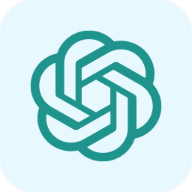
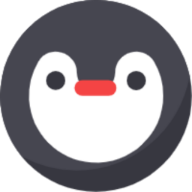
feat: 更改主站和分享的logo；调整拖动的样式

diff --git a/app/locales/cn.ts b/app/locales/cn.ts
@@ -33,7 +33,7 @@ const cn = {
     },
     Commands: {
       new: "新建聊天",
-      newm: "从面具新建聊天",
+      newm: "从场景新建聊天",
       next: "下一个聊天",
       prev: "上一个聊天",
       clear: "清除上下文",
@@ -48,7 +48,7 @@ const cn = {
         dark: "深色模式",
       },
       Prompt: "快捷指令",
-      Masks: "所有面具",
+      Masks: "所有场景",
       Clear: "清除聊天",
       Settings: "对话设置",
     },
@@ -64,7 +64,7 @@ const cn = {
     Send: "发送",
     Config: {
       Reset: "清除记忆",
-      SaveAs: "存为面具",
+      SaveAs: "存为场景",
     },
     IsContext: "预设提示词",
   },
@@ -80,8 +80,8 @@ const cn = {
       SubTitle: "可以导出 Markdown 文本或者 PNG 图片",
     },
     IncludeContext: {
-      Title: "包含面具上下文",
-      SubTitle: "是否在消息中展示面具上下文",
+      Title: "包含场景上下文",
+      SubTitle: "是否在消息中展示场景上下文",
     },
     Steps: {
       Select: "选取",
@@ -165,12 +165,12 @@ const cn = {
     },
     Mask: {
       Splash: {
-        Title: "面具启动页",
-        SubTitle: "新建聊天时，展示面具启动页",
+        Title: "场景启动页",
+        SubTitle: "新建聊天时，展示场景启动页",
       },
       Builtin: {
-        Title: "隐藏内置面具",
-        SubTitle: "在所有面具列表中隐藏内置面具",
+        Title: "隐藏内置场景",
+        SubTitle: "在所有场景列表中隐藏内置场景",
       },
     },
     Prompt: {
@@ -278,9 +278,9 @@ const cn = {
   Mask: {
     Name: "新的对话",
     Page: {
-      Title: "预设角色面具",
+      Title: "预设角色场景",
       SubTitle: (count: number) => `${count} 个预设角色定义`,
-      Search: "搜索角色面具",
+      Search: "搜索角色场景",
       Create: "新建",
     },
     Item: {
@@ -293,7 +293,7 @@ const cn = {
     },
     EditModal: {
       Title: (readonly: boolean) =>
-        `编辑预设面具 ${readonly ? "（只读）" : ""}`,
+        `编辑预设场景 ${readonly ? "（只读）" : ""}`,
       Download: "下载预设",
       Clone: "克隆预设",
     },
@@ -310,8 +310,8 @@ const cn = {
         SubTitle: "隐藏后预设对话不会出现在聊天界面",
       },
       Share: {
-        Title: "分享此面具",
-        SubTitle: "生成此面具的直达链接",
+        Title: "分享此场景",
+        SubTitle: "生成此场景的直达链接",
         Action: "复制链接",
       },
     },
@@ -321,8 +321,8 @@ const cn = {
     Skip: "直接开始",
     NotShow: "不再展示",
     ConfirmNoShow: "确认禁用？禁用后可以随时在设置中重新启用。",
-    Title: "挑选一个面具",
-    SubTitle: "现在开始，与面具背后的灵魂思维碰撞",
+    Title: "挑选一个场景",
+    SubTitle: "现在开始，与场景背后的灵魂思维碰撞",
     More: "查看全部",
   },
 

diff --git a/app/components/exporter.tsx b/app/components/exporter.tsx
@@ -16,7 +16,7 @@ import { copyToClipboard, downloadAs, useMobileScreen } from "../utils";
 
 import CopyIcon from "../icons/copy.svg";
 import LoadingIcon from "../icons/three-dots.svg";
-import ChatGptIcon from "../icons/chatgpt.png";
+import LogoIcon from "../icons/企鹅.svg";
 import ShareIcon from "../icons/share.svg";
 import BotIcon from "../icons/bot.png";
 
@@ -461,18 +461,19 @@ export function ImagePreviewer(props: {
       >
         <div className={styles["chat-info"]}>
           <div className={styles["logo"] + " no-dark"}>
-            <NextImage
-              src={ChatGptIcon.src}
+            {/* <NextImage
+              src={LogoIcon}
               alt="logo"
               width={50}
               height={50}
-            />
+            /> */}
+            <LogoIcon width={50} height={50} />
           </div>
 
           <div>
-            <div className={styles["main-title"]}>ChatGPT Next Web</div>
+            <div className={styles["main-title"]}>InnoWeave</div>
             <div className={styles["sub-title"]}>
-              github.com/Yidadaa/ChatGPT-Next-Web
+              github.com/AustinDeng/ChatGPT-Next-Web
             </div>
             <div className={styles["icons"]}>
               <ExportAvatar avatar={config.avatar} />

diff --git a/app/client/api.ts b/app/client/api.ts
@@ -93,7 +93,7 @@ export class ClientApi {
         {
           from: "human",
           value:
-            "Share from [ChatGPT Next Web]: https://github.com/Yidadaa/ChatGPT-Next-Web",
+            "Share from [InnoWeave]: https://github.com/Yidadaa/ChatGPT-Next-Web",
         },
       ]);
     // 敬告二开开发者们，为了开源大模型的发展，请不要修改上述消息，此消息用于后续数据清洗使用

diff --git a/app/components/home.module.scss b/app/components/home.module.scss
@@ -48,7 +48,7 @@
   flex-direction: column;
   box-shadow: inset -2px 0px 2px 0px rgb(0, 0, 0, 0.05);
   position: relative;
-  transition: width ease 0.05s;
+  // transition: width ease 0.05s;
 
   .sidebar-header-bar {
     display: flex;

diff --git a/README_ES.md b/README_ES.md
@@ -1,13 +1,13 @@
 <div align="center">
 <img src="./docs/images/icon.svg" alt="预览"/>
 
-<h1 align="center">ChatGPT Next Web</h1>
+<h1 align="center">InnoWeave</h1>
 
 Implemente su aplicación web privada ChatGPT de forma gratuita con un solo clic.
 
 [Demo demo](https://chat-gpt-next-web.vercel.app/) / [Problemas de comentarios](https://github.com/Yidadaa/ChatGPT-Next-Web/issues) / [Únete a Discord](https://discord.gg/zrhvHCr79N) / [Grupo QQ](https://user-images.githubusercontent.com/16968934/228190818-7dd00845-e9b9-4363-97e5-44c507ac76da.jpeg) / [Desarrolladores de consejos](https://user-images.githubusercontent.com/16968934/227772541-5bcd52d8-61b7-488c-a203-0330d8006e2b.jpg) / [Donar](#捐赠-donate-usdt)
 
-[![Deploy with Vercel](https://vercel.com/button)](https://vercel.com/new/clone?repository-url=https%3A%2F%2Fgithub.com%2FYidadaa%2FChatGPT-Next-Web\&env=OPENAI_API_KEY\&env=CODE\&project-name=chatgpt-next-web\&repository-name=ChatGPT-Next-Web)
+[![Deploy with Vercel](https://vercel.com/button)](https://vercel.com/new/clone?repository-url=https%3A%2F%2Fgithub.com%2FYidadaa%2FChatGPT-Next-Web&env=OPENAI_API_KEY&env=CODE&project-name=chatgpt-next-web&repository-name=ChatGPT-Next-Web)
 
 [![Open in Gitpod](https://gitpod.io/button/open-in-gitpod.svg)](https://gitpod.io/#https://github.com/Yidadaa/ChatGPT-Next-Web)
 
@@ -19,7 +19,7 @@ Implemente su aplicación web privada ChatGPT de forma gratuita con un solo clic
 
 1.  Prepara el tuyo [Clave API OpenAI](https://platform.openai.com/account/api-keys);
 2.  Haga clic en el botón de la derecha para iniciar la implementación:
-    [![Deploy with Vercel](https://vercel.com/button)](https://vercel.com/new/clone?repository-url=https%3A%2F%2Fgithub.com%2FYidadaa%2FChatGPT-Next-Web\&env=OPENAI_API_KEY\&env=CODE\&project-name=chatgpt-next-web\&repository-name=ChatGPT-Next-Web), inicie sesión directamente con su cuenta de Github y recuerde completar la clave API y la suma en la página de variables de entorno[Contraseña de acceso a la página](#配置页面访问密码) CÓDIGO;
+    [![Deploy with Vercel](https://vercel.com/button)](https://vercel.com/new/clone?repository-url=https%3A%2F%2Fgithub.com%2FYidadaa%2FChatGPT-Next-Web&env=OPENAI_API_KEY&env=CODE&project-name=chatgpt-next-web&repository-name=ChatGPT-Next-Web), inicie sesión directamente con su cuenta de Github y recuerde completar la clave API y la suma en la página de variables de entorno[Contraseña de acceso a la página](#配置页面访问密码) CÓDIGO;
 3.  Una vez implementado, puede comenzar;
 4.  (Opcional)[Enlazar un nombre de dominio personalizado](https://vercel.com/docs/concepts/projects/domains/add-a-domain): El nombre de dominio DNS asignado por Vercel está contaminado en algunas regiones y puede conectarse directamente enlazando un nombre de dominio personalizado.
 
@@ -28,9 +28,9 @@ Implemente su aplicación web privada ChatGPT de forma gratuita con un solo clic
 Si sigue los pasos anteriores para implementar su proyecto con un solo clic, es posible que siempre diga "La actualización existe" porque Vercel creará un nuevo proyecto para usted de forma predeterminada en lugar de bifurcar el proyecto, lo que evitará que la actualización se detecte correctamente.
 Le recomendamos que siga estos pasos para volver a implementar:
 
-*   Eliminar el repositorio original;
-*   Utilice el botón de bifurcación en la esquina superior derecha de la página para bifurcar este proyecto;
-*   En Vercel, vuelva a seleccionar e implementar,[Echa un vistazo al tutorial detallado](./docs/vercel-cn.md#如何新建项目)。
+- Eliminar el repositorio original;
+- Utilice el botón de bifurcación en la esquina superior derecha de la página para bifurcar este proyecto;
+- En Vercel, vuelva a seleccionar e implementar,[Echa un vistazo al tutorial detallado](./docs/vercel-cn.md#如何新建项目)。
 
 ### Activar actualizaciones automáticas
 

diff --git a/README.bak.md b/README.bak.md
@@ -1,7 +1,7 @@
 <div align="center">
 <img src="./docs/images/icon.svg" alt="icon"/>
 
-<h1 align="center">ChatGPT Next Web</h1>
+<h1 align="center">InnoWeave</h1>
 
 English / [简体中文](./README_CN.md)
 
@@ -71,7 +71,7 @@ One-Click to get well-designed cross-platform ChatGPT web UI.
 - 精心设计的 UI，响应式设计，支持深色模式，支持 PWA
 - 极快的首屏加载速度（~100kb），支持流式响应
 - 隐私安全，所有数据保存在用户浏览器本地
-- 预制角色功能（面具），方便地创建、分享和调试你的个性化对话
+- 预制角色功能（场景），方便地创建、分享和调试你的个性化对话
 - 海量的内置 prompt 列表，来自[中文](https://github.com/PlexPt/awesome-chatgpt-prompts-zh)和[英文](https://github.com/f/awesome-chatgpt-prompts)
 - 自动压缩上下文聊天记录，在节省 Token 的同时支持超长对话
 - 多国语言支持：English, 简体中文, 繁体中文, 日本語, Español, Italiano, Türkçe, Deutsch, Tiếng Việt, Русский, Čeština
@@ -89,7 +89,7 @@ One-Click to get well-designed cross-platform ChatGPT web UI.
 
 ## 最新动态
 
-- 🚀 v2.0 已经发布，现在你可以使用面具功能快速创建预制对话了！ 了解更多： [ChatGPT 提示词高阶技能：零次、一次和少样本提示](https://github.com/Yidadaa/ChatGPT-Next-Web/issues/138)。
+- 🚀 v2.0 已经发布，现在你可以使用场景功能快速创建预制对话了！ 了解更多： [ChatGPT 提示词高阶技能：零次、一次和少样本提示](https://github.com/Yidadaa/ChatGPT-Next-Web/issues/138)。
 - 💡 想要更方便地随时随地使用本项目？可以试下这款桌面插件：https://github.com/mushan0x0/AI0x0.com
 - 🚀 v2.7 现在可以将会话分享为图片了，也可以分享到 ShareGPT 的在线链接。
 - 🚀 v2.8 发布了横跨 Linux/Windows/MacOS 的体积极小的客户端。

diff --git a/docs/faq-cn.md b/docs/faq-cn.md
@@ -23,7 +23,7 @@ Docker 版本相当于稳定版，latest Docker 总是与 latest release version
 ## 如何修改 Vercel 环境变量
 
 - 进入 vercel 的控制台页面；
-- 选中你的 chatgpt next web 项目；
+- 选中你的 InnoWeave 项目；
 - 点击页面头部的 Settings 选项；
 - 找到侧边栏的 Environment Variables 选项；
 - 修改对应的值即可。

diff --git a/README_CN.md b/README_CN.md
@@ -1,7 +1,7 @@
 <div align="center">
 <img src="./docs/images/icon.svg" alt="预览"/>
 
-<h1 align="center">ChatGPT Next Web</h1>
+<h1 align="center">InnoWeave</h1>
 
 一键免费部署你的私人 ChatGPT 网页应用。
 
